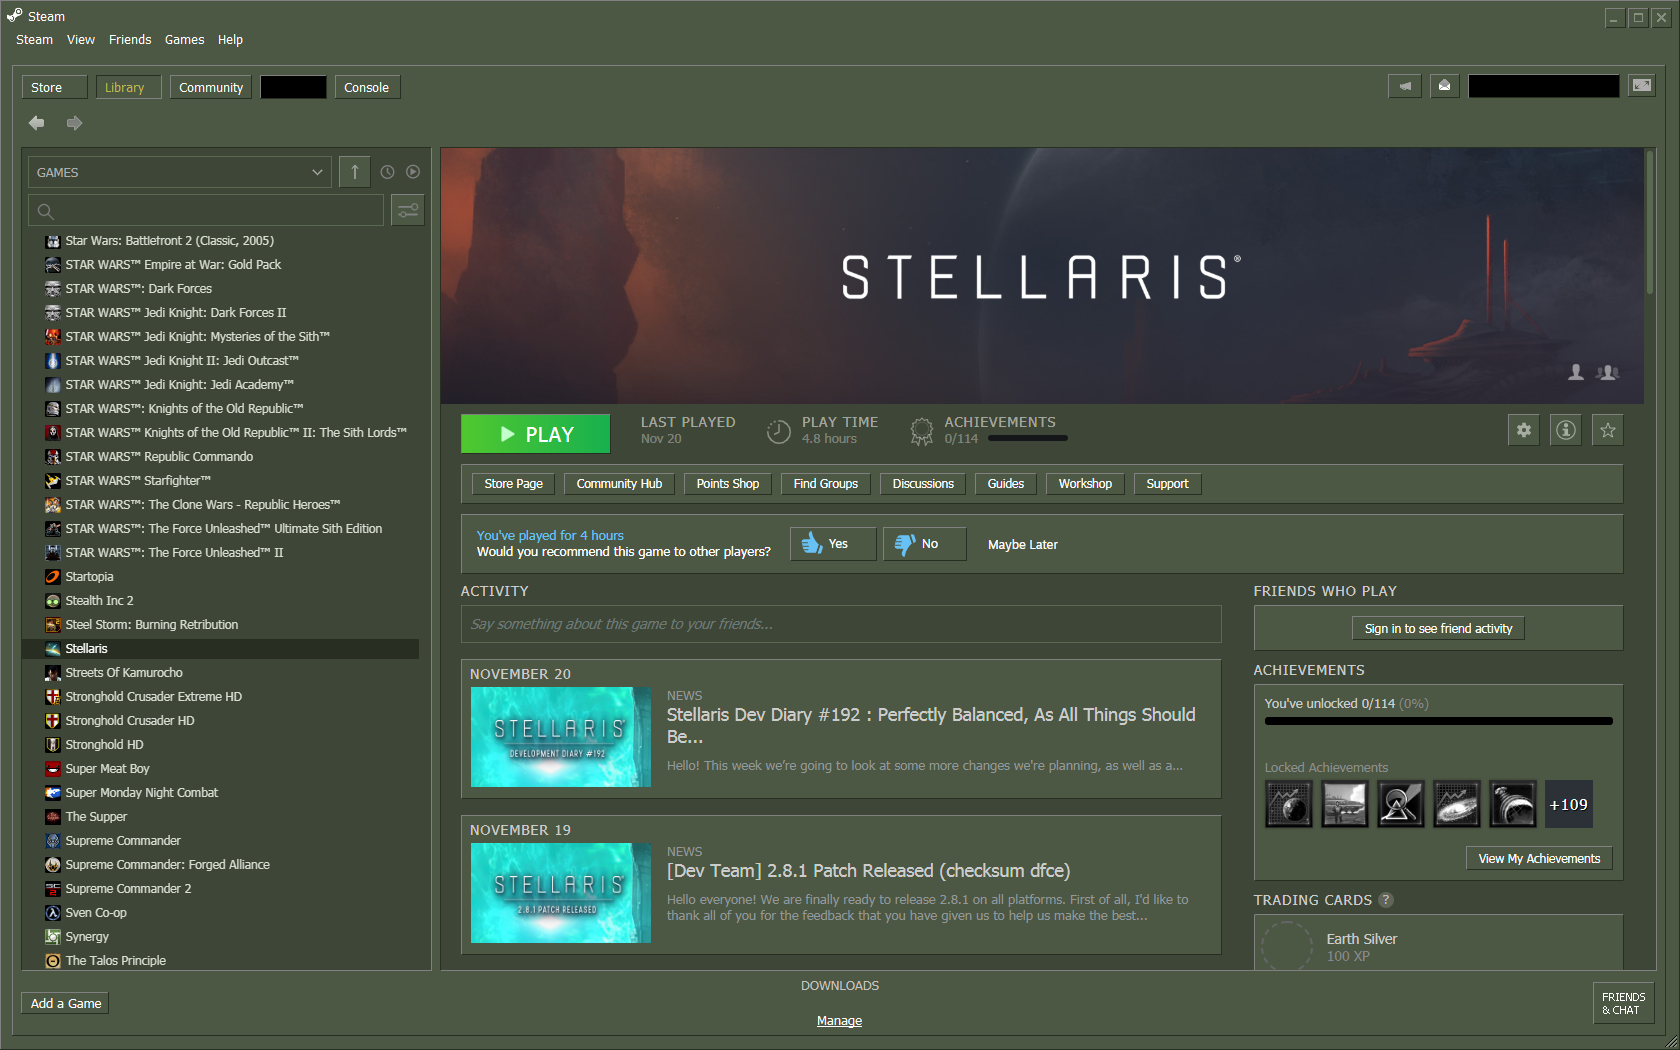
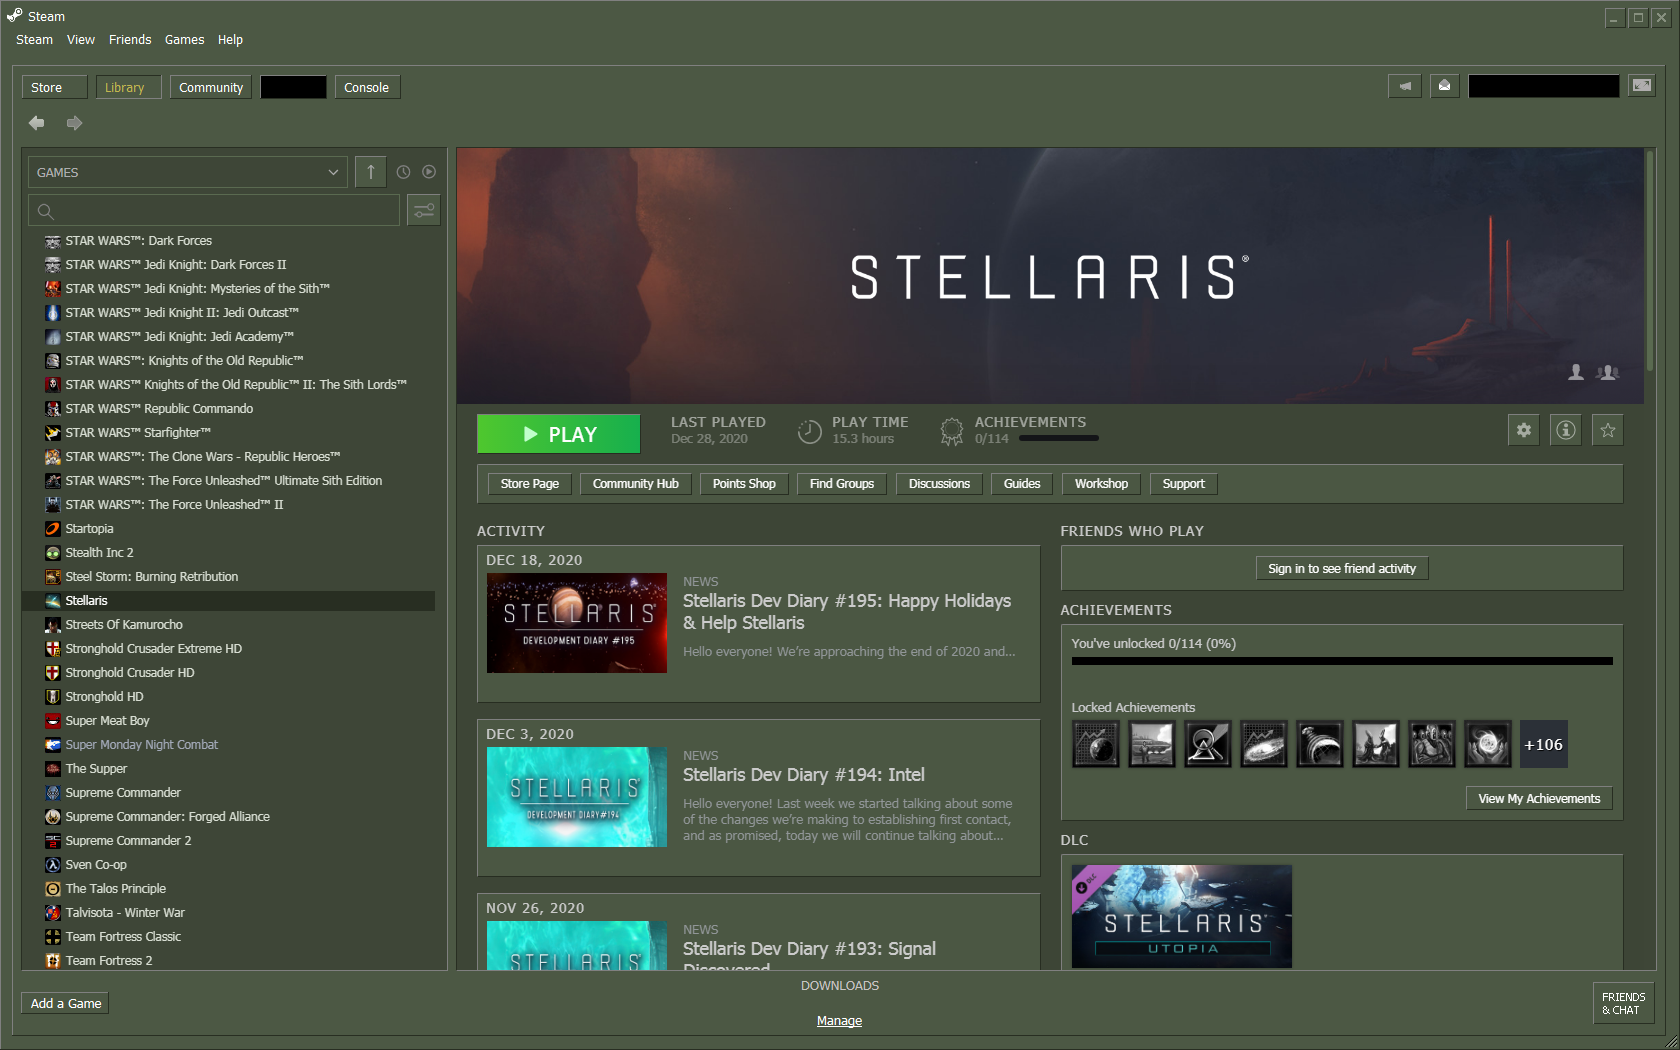
Update image

diff --git a/webkit.css b/webkit.css
@@ -1,0 +1,12 @@
+[class*="libraryhome_WhatsNew"] {
+	display: none !important;
+}
+[class*="writereview_RatingContainer"] {
+	display: none !important;
+}
+[class*="appdetailsactivitysection_AddToFeed"] {
+	display: none !important;
+}
+[class*="appdetailstradingcardssection_Container"] {
+	display: none !important;
+}
